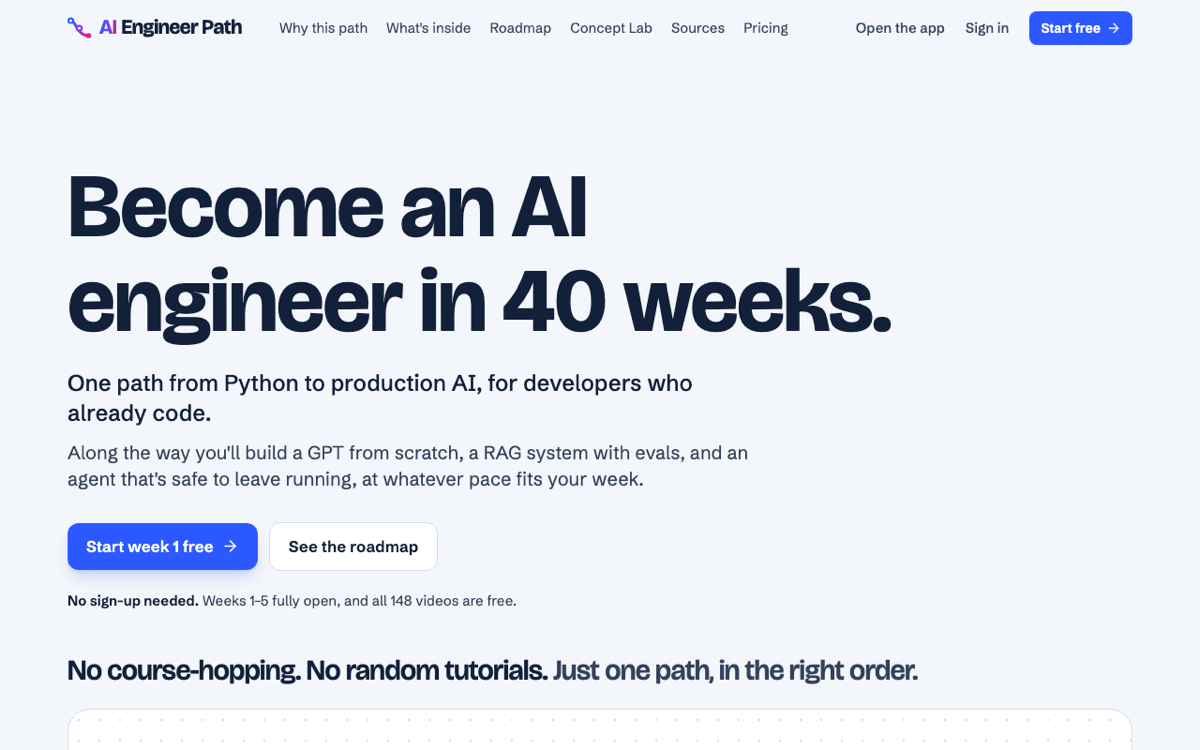
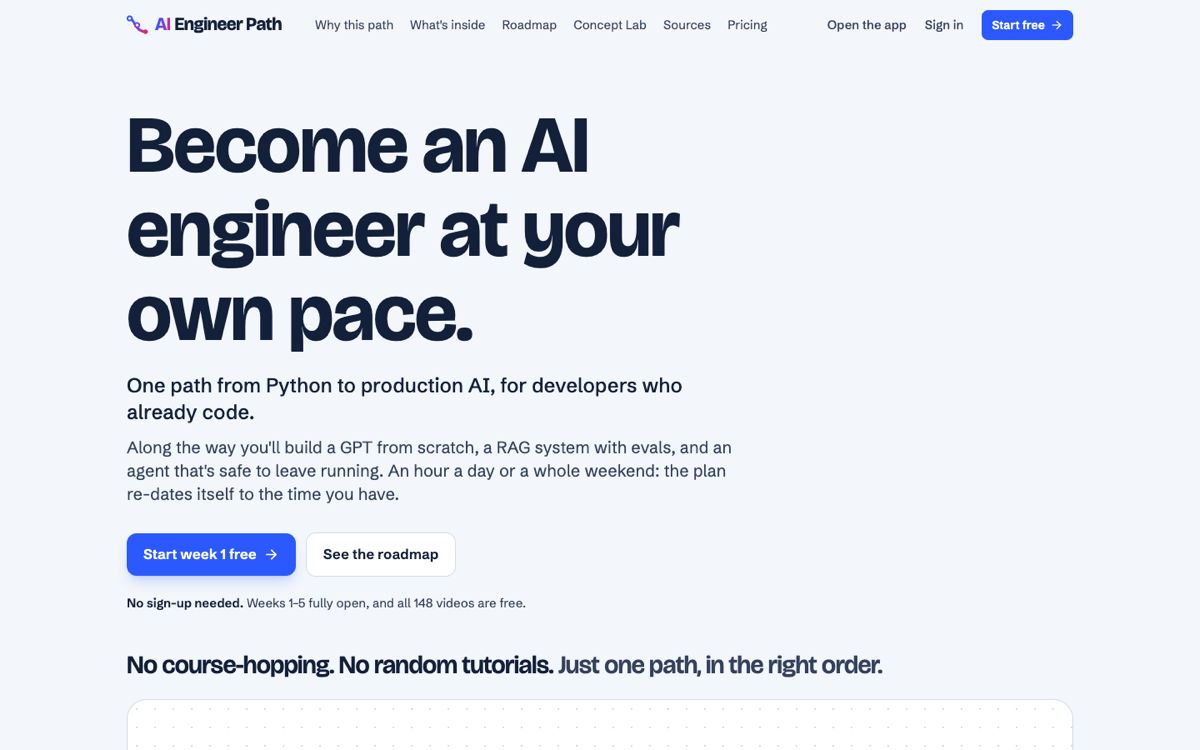
Update AI Engineer Path and Splitr sections and screenshots
- AI Engineer Path: current homepage screenshot, 40-week path,
  247 lessons, 22 simulations, eight projects, pace engine, free videos
- Splitr: redesigned homepage screenshot, who-owes-whom and UPI pitch,
  personal ledger, Flutter offline sync, deploy rollbacks

diff --git a/README.md b/README.md
@@ -11,20 +11,24 @@ I'm a lead software engineer with 7+ years of building backend systems in **Java
 
 [![AI Engineer Path homepage](assets/aiengineerpath.png)](https://aiengineerpath.in)
 
-A learning platform that takes developers from Python to production AI in one structured path: machine learning, deep learning, building a GPT from scratch, then LLM apps, RAG, agents, evals and LLMOps.
+Become an AI engineer at your own pace. One 40-week path from Python to production AI, for developers who already code: along the way you build a GPT from scratch, a RAG system with evals, and an agent that's safe to leave running.
 
-- **247 original lessons** with worked examples, **22 interactive simulations** (attention, gradient descent, RAG, KV cache…), quizzes, exercises and interview questions for every topic
+- **247 original lessons** across 8 phases, **22 interactive simulations** (self-attention, gradient descent, temperature and top-p, a RAG pipeline…), and a quiz, exercises and interview questions for every week
+- **Eight portfolio projects**, with two flagships that ship eval results and a cost analysis: a production RAG system with hybrid search and reranking, and a LangGraph agent with approval gates, a cost ceiling and its own MCP server
 - A **pace engine** that re-dates 280 daily tasks to the hours each learner has, with progress synced across devices
+- **148 free videos** from StatQuest, Andrej Karpathy, 3Blue1Brown and others, each placed on the week it helps. Weeks 1–5 are open with no sign-up
 - **Next.js 16 on Cloudflare Workers**, Supabase for auth and data, Razorpay payments, Resend email and Turnstile spam protection
-- Built for speed and trust: staging that mirrors production, deploys that never break open pages, and full privacy, refund and grievance pages
 
-### [Splitr](https://splitr.in) · live on the web, Android app in testing
+### [Splitr](https://splitr.in) · live on the web, Android app in closed testing
 
 [![Splitr homepage](assets/splitr.png)](https://splitr.in)
 
-The complete OS for your wallet: split group expenses with friends, keep a personal ledger, and manage credit card EMIs with AI. The [Android app](https://play.google.com/store/apps/details?id=in.splitr.app) (in closed testing) can also import your history from Splitwise.
+Know who owes whom, and settle up by UPI. Add what you spent on a trip, the flat rent or office lunches; Splitr works out the fewest payments to make everyone even, then opens GPay, PhonePe or Paytm to pay back. A private personal ledger keeps track of your own money alongside.
 
-- TypeScript app with a Postgres database, deployed on a VPS with Docker Compose and Caddy for automatic HTTPS
+- **Android app in Flutter** that works offline: writes queue on the phone and sync with idempotency keys, so nothing is saved twice. UPI deep links, Google sign-in, push notifications, Hindi and English
+- **Personal ledger** with a monthly summary, category breakdown, budgets and a savings goal, and no bank login
+- Splitwise import with original dates, receipt scanning, 25 currencies, and group chat over WebSockets
+- **TypeScript (React and Express) on PostgreSQL**, deployed with Docker Compose and Caddy; each deploy runs migrations first and rolls back automatically if the health check fails
 
 ## Engineering projects
 
